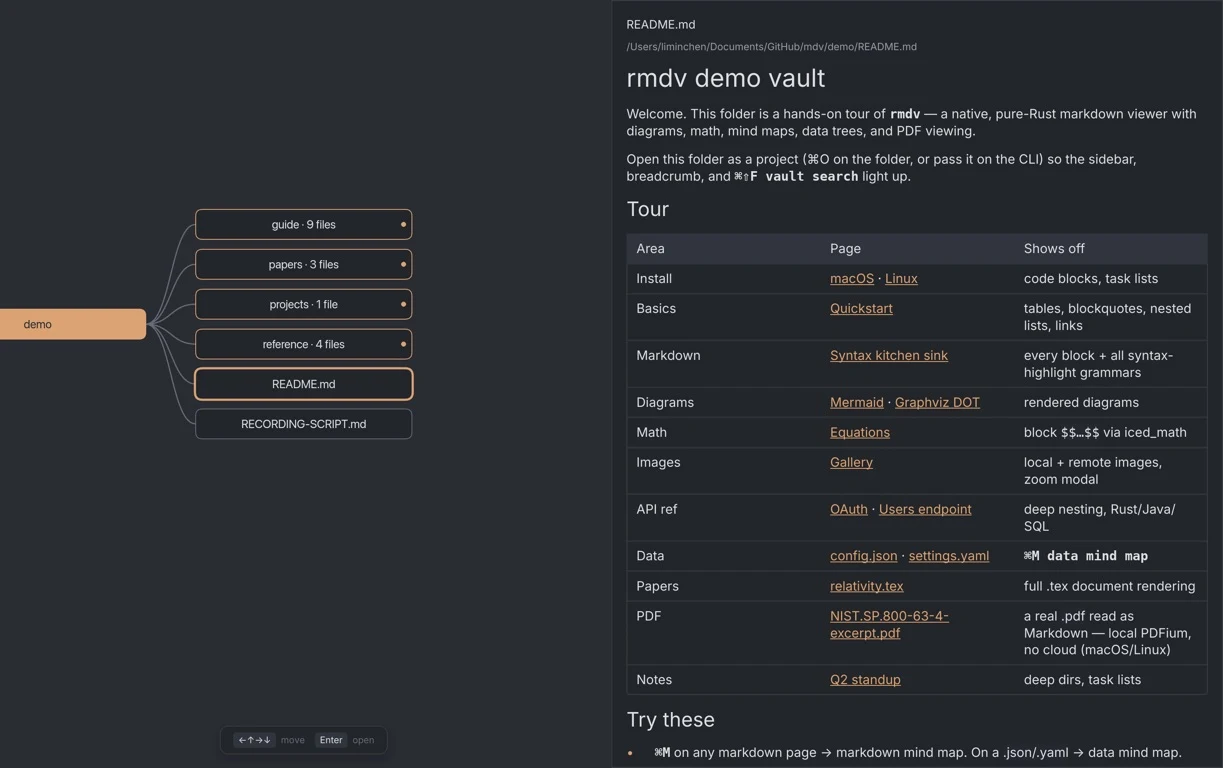
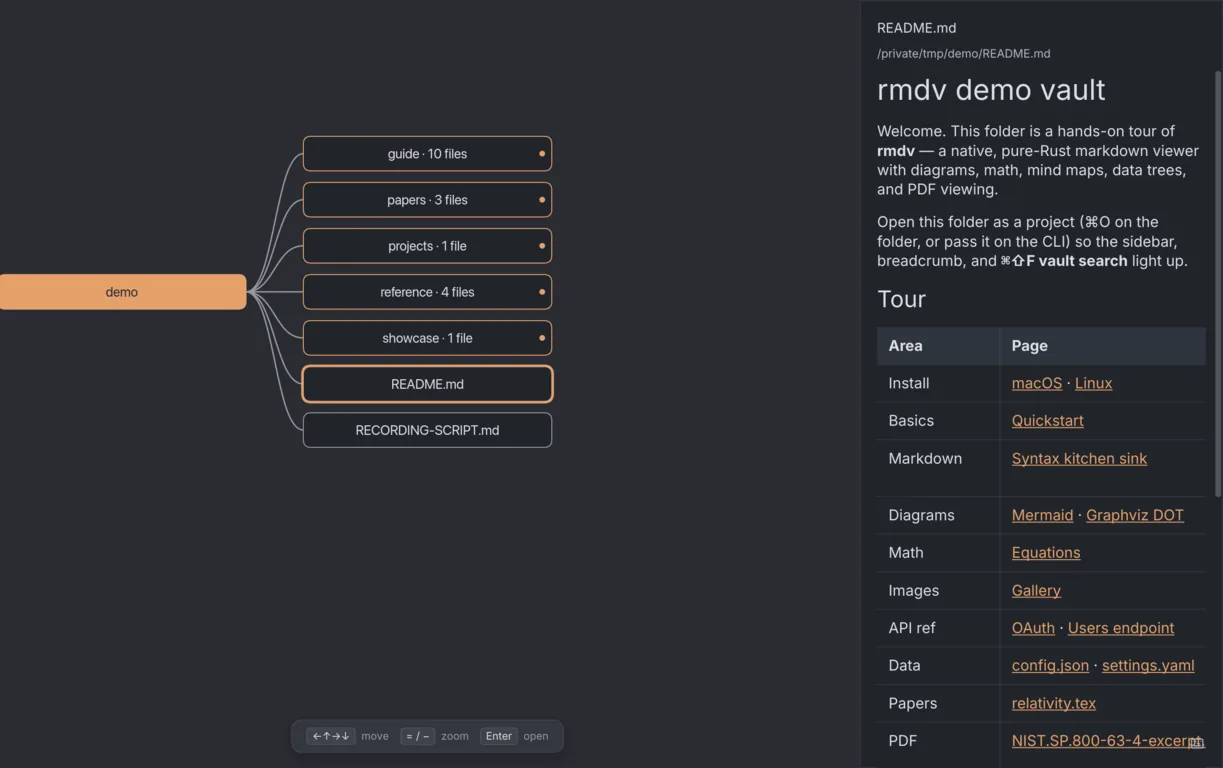
demo: storyboard frames; site: retake search and full-mindmap shots headless

diff --git a/tests/headless_shot.rs b/tests/headless_shot.rs
@@ -84,6 +84,8 @@ fn capture() {
             ],
             "fullmindmap" => vec![Message::ToggleFullMindmap],
             "panel" => vec![Message::FullMindmapTogglePanel],
+            "mindmap" => vec![Message::ToggleMindmap],
+            "nosidebar" => vec![Message::ToggleSidebar],
             "goto" => {
                 let want = std::env::var("RMDV_SHOT_SECTION").expect("RMDV_SHOT_SECTION");
                 let src = std::fs::read_to_string(&doc).expect("read doc");
@@ -102,9 +104,36 @@ fn capture() {
         }
     }
 
+    // Let widgets publish layout-driven messages (viewport size, fit) and
+    // feed them back for a few passes before the final frame.
     let theme = app.theme();
-    let mut sim = Simulator::with_size(settings(), iced::Size::new(1280.0, 800.0), app.view());
-    let snap = sim.snapshot(&theme).expect("snapshot");
+    let mut snap = None;
+    for pass in 0..4 {
+        let (s, msgs) = {
+            let mut sim =
+                Simulator::with_size(settings(), iced::Size::new(1280.0, 800.0), app.view());
+            if let Ok(n) = std::env::var("RMDV_SHOT_WHEEL") {
+                // Scroll the reader under the cursor by N logical pixels (negative = down).
+                let n: f32 = n.parse().expect("RMDV_SHOT_WHEEL number");
+                sim.point_at(iced::Point::new(700.0, 400.0));
+                let wheel = iced::Event::Mouse(iced::mouse::Event::WheelScrolled {
+                    delta: iced::mouse::ScrollDelta::Pixels { x: 0.0, y: n },
+                });
+                sim.simulate(std::iter::once(wheel));
+            }
+            let s = sim.snapshot(&theme).expect("snapshot");
+            (s, sim.into_messages().collect::<Vec<_>>())
+        };
+        if pass == 3 || msgs.is_empty() {
+            snap = Some(s);
+            break;
+        }
+        for m in msgs {
+            let t = app.update(m);
+            drain(&mut app, &rt, t, budget);
+        }
+    }
+    let snap = snap.expect("snapshot");
     let _ = std::fs::remove_file(&out);
     assert!(snap.matches_image(&out).expect("write png"));
     println!("scene={scene} out={}", out.display());

diff --git a/demo/showcase/ingest-pipeline.md b/demo/showcase/ingest-pipeline.md
@@ -42,7 +42,11 @@ ratio ρ, and arrival rate λ, the required capacity C is:
 
 $$
 C = \frac{1}{\rho}\sum_{i=1}^{n} s_i \left(1 + \frac{\sigma_i^2}{\mu_i^2}\right)
-\qquad \text{with} \qquad
+$$
+
+The fill ratio is the arrival rate divided by the service rate:
+
+$$
 \rho = \frac{\lambda}{\mu}
 $$
 
